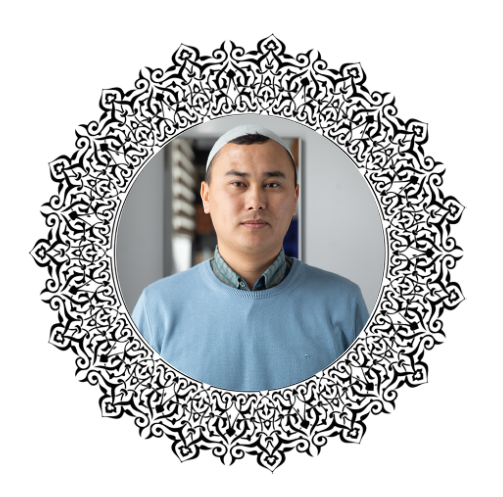
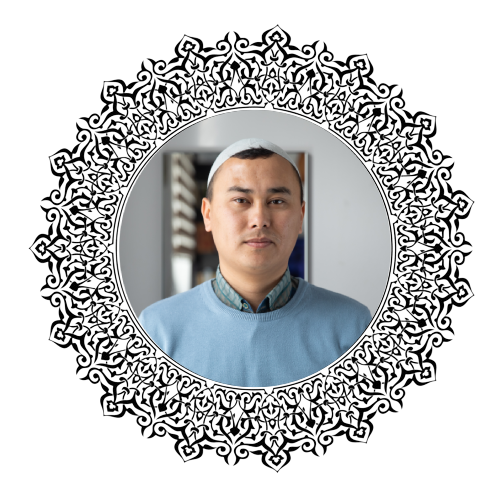
Message

diff --git a/src/components/CreditCard/CreditCard.jsx b/src/components/CreditCard/CreditCard.jsx
@@ -37,8 +37,95 @@ const CreditCard = () => {
           </h1>
           <div className="flex flex-wrap font-subHero gap-3 text-3xl w-full text-center items-center text-black">
             <div className="bg-black p-2 rounded-xl bg-opacity-25 w-[300px] mx-auto">
+              <svg
+                id="brand-logo-svg"
+                className="logo"
+                xmlns="http://www.w3.org/2000/svg"
+                viewBox="0 0 179 37"
+              >
+                <defs>
+                  <style>
+                    {`
+            .b { fill: #fff; }
+            .c, .dlogored { fill: #ec1c24; }
+            .c, .e { fill-rule: evenodd; }
+            .flogored, .dlogored { stroke: #fff; stroke-width: 0.87px; }
+            .glogored { fill: #fefefe; }
+          `}
+                  </style>
+                </defs>
+                <path
+                  className="blogoblack"
+                  d="M47.37,24.62c4.8,0,8.49-3.69,8.49-8.16s-3.69-8.16-8.49-8.16-8.49,3.69-8.49,8.16,3.69,8.16,8.49,8.16Zm0-3.13c-2.79,0-5.03-2.23-5.03-5.03s2.23-5.03,5.03-5.03,5.03,2.23,5.03,5.03-2.23,5.03-5.03,5.03Z"
+                ></path>
+                <path
+                  className="blogoblack"
+                  d="M58.31,28.98h3.02v-6.26h.11s1.12,1.79,3.46,1.79c2.57,0,4.92-2.35,4.92-5.7s-2.35-5.7-4.92-5.7c-2.35,0-3.46,1.79-3.46,1.79h-.11v-1.56h-3.02v15.64Zm5.7-7.26c-1.56,0-2.79-1.23-2.79-2.91s1.23-2.91,2.79-2.91,2.79,1.23,2.79,2.91-1.23,2.91-2.79,2.91Z"
+                ></path>
+                <path
+                  className="blogoblack"
+                  d="M76.64,24.51c1.12,0,2.01-.34,2.01-.34v-2.79s-.56,.22-1.23,.22c-.89,0-1.45-.56-1.45-1.56v-3.69h2.46v-2.79h-2.46v-3.35h-2.68v2.01c0,.89-.45,1.34-1.23,1.34h-1.01v2.79h1.9v4.13c0,2.57,1.45,4.02,3.69,4.02Z"
+                ></path>
+                <path
+                  className="blogoblack"
+                  d="M81,24.29h3.02V13.34h-3.02v10.95Zm1.5-12.4c.96,0,1.74-.78,1.74-1.68s-.78-1.68-1.72-1.68-1.74,.78-1.74,1.68,.78,1.68,1.72,1.68Z"
+                ></path>
+                <path
+                  className="blogoblack"
+                  d="M86.92,24.29h3.02v-6.03c0-1.34,.89-2.23,2.12-2.23,1.12,0,1.79,.67,1.79,1.9v6.37h3.02v-6.03c0-1.34,.89-2.23,2.12-2.23,1.12,0,1.79,.67,1.79,1.9v6.37h3.02v-6.82c0-2.68-1.68-4.36-3.8-4.36-2.35,0-3.58,1.9-3.58,1.9h-.11s-.89-1.9-3.24-1.9c-2.12,0-3.02,1.79-3.02,1.79h-.11v-1.56h-3.02v10.95Z"
+                ></path>
+                <path
+                  className="blogoblack"
+                  d="M109.48,24.51c2.12,0,3.24-1.56,3.24-1.56h.11v1.34h3.02v-6.82c0-2.46-1.9-4.36-4.69-4.36s-4.47,2.12-4.47,2.12l1.79,1.79s.89-1.23,2.46-1.23c1.12,0,1.79,.67,1.9,1.45l-3.46,.63c-2.01,.36-3.24,1.72-3.24,3.51s1.34,3.13,3.35,3.13Zm1.01-2.46c-.89,0-1.34-.45-1.34-1.12,0-.56,.45-.98,1.23-1.12l2.46-.45v.22c0,1.45-1,2.46-2.35,2.46Z"
+                ></path>
+                <path
+                  className="blogored"
+                  d="M119.93,24.29h7.04c3.35,0,5.36-2.01,5.36-4.47,0-3.02-2.9-3.8-2.9-3.8,0,0,2.12-.78,2.12-3.24,0-2.23-1.9-4.13-5.03-4.13h-6.59v15.64Zm3.35-2.91v-3.8h3.46c1.34,0,2.12,.78,2.12,1.9s-.78,1.9-2.12,1.9h-3.46Zm0-6.7v-3.13h3.02c1.12,0,1.79,.67,1.79,1.56s-.67,1.56-1.79,1.56h-3.02Z"
+                ></path>
+                <path
+                  className="blogored"
+                  d="M137.6,24.51c2.12,0,3.24-1.56,3.24-1.56h.11v1.34h3.02v-6.82c0-2.46-1.9-4.36-4.69-4.36s-4.47,2.12-4.47,2.12l1.79,1.79s.89-1.23,2.46-1.23c1.12,0,1.79,.67,1.9,1.45l-3.46,.63c-2.01,.36-3.24,1.72-3.24,3.51s1.34,3.13,3.35,3.13Zm1.01-2.46c-.89,0-1.34-.45-1.34-1.12,0-.56,.45-.98,1.23-1.12l2.46-.45v.22c0,1.45-1.01,2.46-2.35,2.46Z"
+                ></path>
+                <path
+                  className="blogored"
+                  d="M146.87,24.29h3.02v-5.81c0-1.45,1.01-2.46,2.35-2.46,1.23,0,2.01,.78,2.01,2.12v6.15h3.02v-6.59c0-2.79-1.79-4.58-4.02-4.58s-3.24,1.79-3.24,1.79h-.11v-1.56h-3.02v10.95Z"
+                ></path>
+                <path
+                  className="blogored"
+                  d="M160.27,24.29h3.02v-2.57l1.45-1.68,2.79,4.25h3.46l-4.25-6.37,4.02-4.58h-3.58l-3.91,4.47V8.64h-3.02v15.64Z"
+                ></path>
+                <path
+                  className="flogored"
+                  d="M13.74,16.59h0L10.58,3.39l-.13-.54-.49,.26C4.82,5.78,1.3,11.15,1.3,17.35s3.51,11.57,8.65,14.24l.49,.26,.13-.54,3.16-13.2h0c.12-.5,.12-1.02,0-1.52Z"
+                ></path>
+                <path
+                  className="dlogored"
+                  d="M17.66,1.3h0c-2.72-.05-5.29,.58-7.55,1.72l-.58,.29,.49,.42,15.73,13.61-15.73,13.61-.49,.42,.58,.29c2.17,1.1,4.63,1.72,7.23,1.72,8.98,0,16.23-7.37,16.05-16.4h0c-.18-8.56-7.18-15.54-15.73-15.7Z"
+                ></path>
+                <path
+                  className="glogored"
+                  d="M17.35,0c4.79,0,9.13,1.94,12.27,5.08,3.14,3.14,5.08,7.48,5.08,12.27s-1.94,9.12-5.08,12.26h0c-3.14,3.15-7.48,5.09-12.26,5.09s-9.13-1.94-12.27-5.08C1.94,26.48,0,22.14,0,17.35S1.94,8.22,5.08,5.09h0C8.22,1.94,12.56,0,17.35,0h0Zm10.91,6.44c-2.79-2.79-6.65-4.52-10.91-4.52S9.23,3.65,6.44,6.44C3.65,9.23,1.92,13.09,1.92,17.35s1.73,8.12,4.52,10.91c2.79,2.79,6.65,4.52,10.91,4.52s8.12-1.73,10.91-4.52h0c2.79-2.79,4.52-6.65,4.52-10.91s-1.73-8.12-4.52-10.91Z"
+                ></path>
+                <path
+                  className="glogored"
+                  d="M13.04,17.35l-3.5,14.75,17.35-14.75L9.54,2.6l3.5,14.75Z"
+                ></path>
+                <path d="M.87,17.35c0,6.37,3.51,11.92,8.67,14.75h0l3.47-14.75H.87Z"></path>
+                <path
+                  className="e"
+                  d="M9.52,2.61C4.37,5.45,.87,10.98,.87,17.35H13.01L9.54,2.61h-.02Z"
+                ></path>
+                <path
+                  className="c"
+                  d="M26.66,17.35h7.18C33.83,8.25,26.46,.87,17.36,.87c-2.83,0-5.49,.72-7.82,1.97l.02,.07,17.09,14.44h0Z"
+                ></path>
+                <path
+                  className="c"
+                  d="M26.66,17.35L9.56,31.78l-.02,.08c2.33,1.26,4.99,1.97,7.82,1.97,9.1,0,16.47-7.38,16.47-16.48h-7.18Z"
+                ></path>
+              </svg>
               <div className="flex justify-around items-center">
-                <h4> Оптима Банк</h4>
+                <p className="ml-6">{optima}</p>
                 <CopyToClipboard
                   text={optima}
                   onCopy={() => handleCopy(optima, "optima")}
@@ -50,23 +137,22 @@ const CreditCard = () => {
                   )}
                 </CopyToClipboard>
               </div>
-              <p>{optima}</p>
             </div>
             <div className="bg-black p-2 rounded-xl bg-opacity-25 w-[300px] mx-auto">
-              <div className="flex justify-around items-center">
-                <h4>Mбанк</h4>
+              <img src="/images/mbank.svg" alt="" style={{ height: "30px" }} className="mx-auto"/>
+              <div className="flex justify-around items-center h-[50px]">
+                <p className="mx-auto no-underline">{mBank}</p>
                 <CopyToClipboard
                   text={mBank}
                   onCopy={() => handleCopy(mBank, "mBank")}
                 >
                   {copySuccess.mBank ? (
-                    <FaCheck className="text-[30px] text-gray-700 border border-gray-700 rounded-lg p-1 cursor-pointer" />
+                    <FaCheck className="text-[30px] text-gray-700 border border-gray-700 rounded-lg p-1 cursor-pointer " />
                   ) : (
                     <MdContentCopy className="text-[30px] text-gray-700 border border-gray-700 rounded-lg p-1 cursor-pointer" />
                   )}
                 </CopyToClipboard>
               </div>
-              <p className="mx-auto no-underline">{mBank}</p>
             </div>
           </div>
         </div>

diff --git a/src/components/Gallery/Gallery.jsx b/src/components/Gallery/Gallery.jsx
@@ -1,76 +1,80 @@
-import React from "react";
+import React, { useState } from "react";
+import { Carousel } from "react-responsive-carousel";
+import { RiCloseCircleLine } from "react-icons/ri";
+import "react-responsive-carousel/lib/styles/carousel.min.css";
 
 const Gallery = () => {
+  const images = [
+    { id: 1, src: "/images/IMG_1.JPG", alt: "Image 1" },
+    { id: 2, src: "/images/IMG_2.JPG", alt: "Image 2" },
+    { id: 3, src: "/images/IMG_3.JPG", alt: "Image 3" },
+    // Add more images as needed
+  ];
+
+  const [showCarousel, setShowCarousel] = useState(false);
+  const [selectedImageIndex, setSelectedImageIndex] = useState(0);
+
+  const openCarousel = (index) => {
+    setSelectedImageIndex(index);
+    setShowCarousel(true);
+  };
+
+  const closeCarousel = () => {
+    setShowCarousel(false);
+  };
+
   return (
-    <section
-      className="bg-[url('/images/credit-bg.jpg')] bg-contain body-font"
-      id="gallery"
-    >
-      <div className="container px-5 py-24 mx-auto flex flex-wrap">
-        <div className="flex flex-col text-center w-full mb-12">
-          <h1 className="sm:text-3xl text-2xl font-medium title-font mb-4 text-gray-900 font-hero">
+    <>
+      <section className="bg-[url('/images/credit-bg.jpg')] bg-contain body-font" id="gallery">
+        {/* Gallery Title */}
+        <div className="flex flex-col text-center w-full pt-12">
+          <h1 className="sm:text-3xl text-2xl font-medium title-font text-gray-900 font-hero">
             Cүрөттөр
           </h1>
-          <p className="lg:w-2/3 mx-auto leading-relaxed text-base font-subHero">
-            Lorem ipsum dolor sit amet consectetur adipisicing elit. Incidunt
-            eos dignissimos quo error sapiente. Modi blanditiis, commodi impedit
-            dolorem tempora alias recusandae vel labore quia officia, odit, ex
-            praesentium deleniti. Consequatur natus labore aliquam molestiae,
-            sit saepe accusantium ad laboriosam harum nemo quas placeat, nobis
-            commodi qui dolorum voluptatum. Accusantium, ut? Quis ut libero
-            ullam nulla commodi nemo voluptas vitae.
-          </p>
         </div>
-        <div className="flex flex-wrap md:-m-2 -m-1">
-          <div className="flex flex-wrap w-1/1 md:w-1/2">
-            <div className="md:p-2 p-1 w-1/2">
-              <img
-                alt="gallery"
-                className="w-full object-cover h-full object-center block"
-                src="/images/IMG_1.JPG"
-              />
-            </div>
-            <div className="md:p-2 p-1 w-1/2">
-              <img
-                alt="gallery"
-                className="w-full object-cover h-full object-center block"
-                src="/images/IMG_2.JPG"
-              />
-            </div>
-            <div className="md:p-2 p-1 w-full">
-              <img
-                alt="gallery"
-                className="w-full h-full object-cover object-center block"
-                src="/images/IMG_3.JPG"
-              />
-            </div>
+        <div className="container px-5 py-12 mx-auto">
+          <div className="flex flex-wrap -m-2">
+            {images.map((image, index) => (
+              <div key={image.id} className="p-2 w-full sm:w-1/2 md:w-1/3 lg:w-1/4">
+                <img
+                  src={image.src}
+                  alt={image.alt}
+                  className="cursor-pointer w-full h-auto rounded-lg"
+                  onClick={() => openCarousel(index)}
+                />
+              </div>
+            ))}
           </div>
-          <div className="flex flex-wrap w-1/1 md:w-1/2">
-            <div className="md:p-2 p-1 w-full">
-              <img
-                alt="gallery"
-                className="w-full h-full object-cover object-center block"
-                src="/images/IMG_1.JPG"
-              />
+
+          {/* Carousel Modal */}
+          {showCarousel && (
+            <div className="fixed top-0 left-0 w-full h-full bg-black bg-opacity-75 flex justify-center items-center z-50">
+              <div className="relative max-w-3xl max-h-3/4">
+                <Carousel
+                  selectedItem={selectedImageIndex}
+                  showArrows={true}
+                  showStatus={false}
+                  showIndicators={false}
+                  onChange={(index) => setSelectedImageIndex(index)}
+                >
+                  {images.map((image) => (
+                    <div key={image.id}>
+                      <img src={image.src} alt={image.alt} />
+                    </div>
+                  ))}
+                </Carousel>
+                <button
+                  className="absolute top-4 right-4 bg-green-400 rounded-full text-white text-3xl focus:outline-none items-center"
+                  onClick={closeCarousel}
+                >
+                  <RiCloseCircleLine/>
+                </button>
+              </div>
             </div>
-            <div className="md:p-2 p-1 w-1/2">
-              <img
-                alt="gallery"
-                className="w-full object-cover h-full object-center block"
-                src="/images/IMG_2.JPG"
-              />
-            </div>
-            <div className="md:p-2 p-1 w-1/2">
-              <img
-                alt="gallery"
-                className="w-full object-cover h-full object-center block"
-                src="/images/IMG_3.JPG"
-              />
-            </div>
-          </div>
+          )}
         </div>
-      </div>
-    </section>
+      </section>
+    </>
   );
 };
 

diff --git a/src/components/Teachers/Teacher.jsx b/src/components/Teachers/Teacher.jsx
@@ -18,13 +18,28 @@ const Teacher = () => {
               <img
                 alt="team"
                 className="flex-shrink-0 rounded-lg object-cover object-center mb-4"
-                src="/images/frame2.png"
+                src="/images/1.png"
               />
               <div className="w-full">
                 <h2 className="title-font font-medium text-lg text-gray-900">
-                  Абдушукур уулу Имран
+                  Абдишүкүр уулу Имран
                 </h2>
-                <h3 className="text-gray-500 mb-3">Куран мугалими</h3>
+                <h3 className="text-gray-500 mb-3">Мүдүр</h3>
+              </div>
+            </div>
+          </div>
+          <div className="p-4 lg:w-1/5 md:w-1/2">
+            <div className="h-full flex flex-col items-center text-center">
+              <img
+                alt="team"
+                className="flex-shrink-0 rounded-lg object-cover object-center mb-4"
+                src="/images/4.png"
+              />
+              <div className="w-full">
+                <h2 className="title-font font-medium text-lg text-gray-900">
+                  Шамов Инаятулла
+                </h2>
+                <h3 className="text-gray-500 mb-3">Завуч</h3>
               </div>
             </div>
           </div>
@@ -52,27 +67,13 @@ const Teacher = () => {
               />
               <div className="w-full">
                 <h2 className="title-font font-medium text-lg text-gray-900">
-                  Шамов Сайфулло
+                  Шамов Сайфулла
                 </h2>
                 <h3 className="text-gray-500 mb-3">Куран мугалими</h3>
               </div>
             </div>
           </div>
-          <div className="p-4 lg:w-1/5 md:w-1/2">
-            <div className="h-full flex flex-col items-center text-center">
-              <img
-                alt="team"
-                className="flex-shrink-0 rounded-lg object-cover object-center mb-4"
-                src="/images/4.png"
-              />
-              <div className="w-full">
-                <h2 className="title-font font-medium text-lg text-gray-900">
-                  Шамов Инеятулло
-                </h2>
-                <h3 className="text-gray-500 mb-3">Куран мугалими</h3>
-              </div>
-            </div>
-          </div>
+
           <div className="p-4 lg:w-1/5 md:w-1/2">
             <div className="h-full flex flex-col items-center text-center">
               <img

diff --git a/src/components/HeroSlider/HeroSlider.jsx b/src/components/HeroSlider/HeroSlider.jsx
@@ -48,13 +48,13 @@ const HeroSlider = ({ slides }) => {
         </div>
       ))}
       <button
-        className="absolute top-1/2 transform -translate-y-1/2 left-4 text-white text-xl bg-black bg-opacity-50 px-4 py-2 rounded-lg"
+        className="absolute top-1/2 transform -translate-y-1/2 left-4 text-white text-xl bg-green-700 bg-opacity-50 px-4 py-2 rounded-lg"
         onClick={prevSlide}
       >
         <img src="/images/arrow-prev.png" alt="" style={{width: '20px'}} />
       </button>
       <button
-        className="absolute top-1/2 transform -translate-y-1/2 right-4 text-white text-xl bg-black bg-opacity-50 px-4 py-2 rounded-lg"
+        className="absolute top-1/2 transform -translate-y-1/2 right-4 text-white text-xl bg-green-700 bg-opacity-50 px-4 py-2 rounded-lg"
         onClick={nextSlide}
       >
         <img src="/images/arrow-next.png" alt="" style={{width: '20px'}} />
